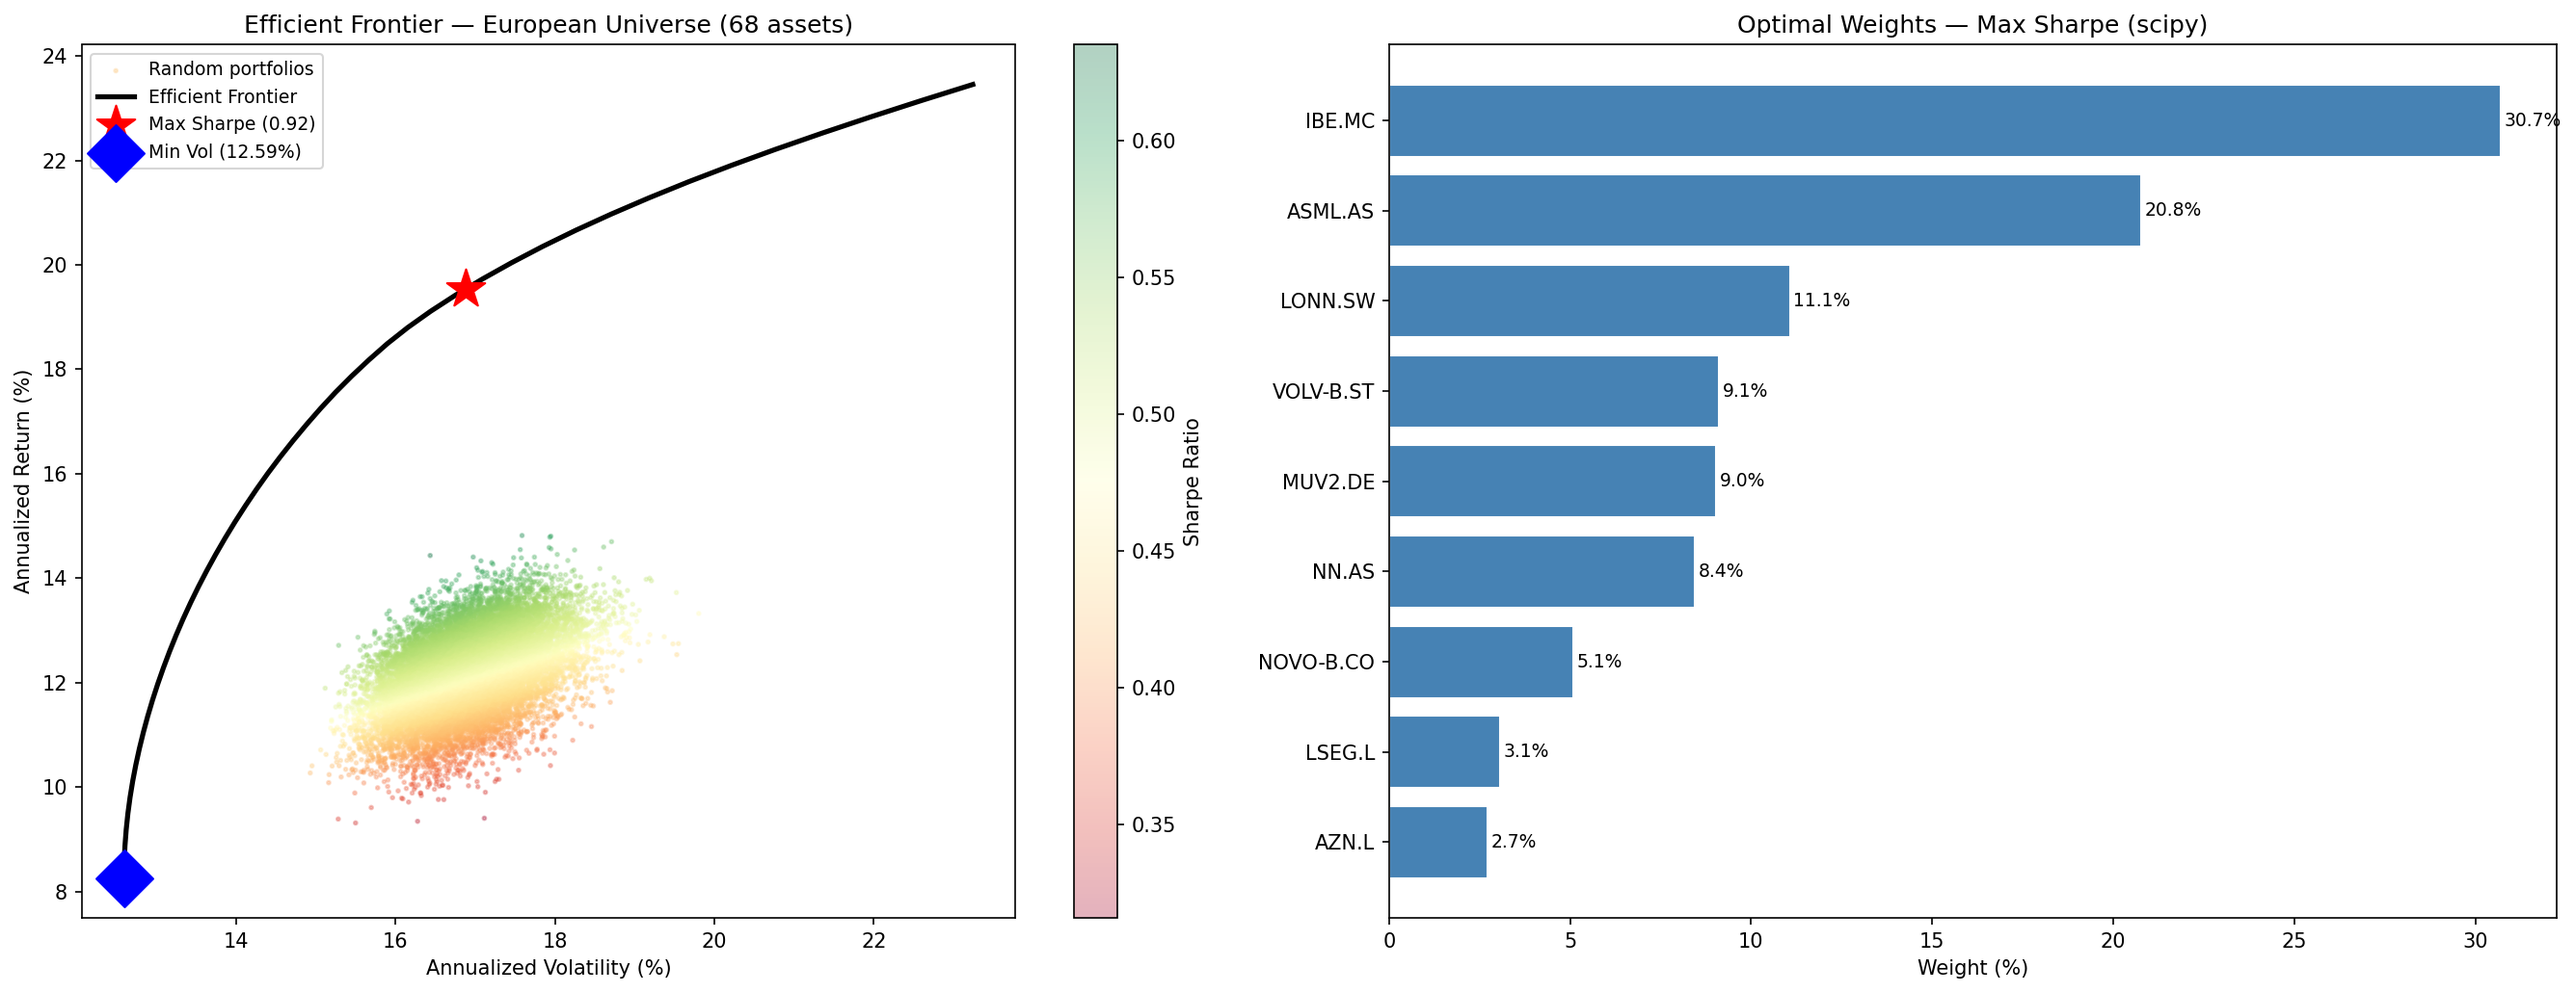
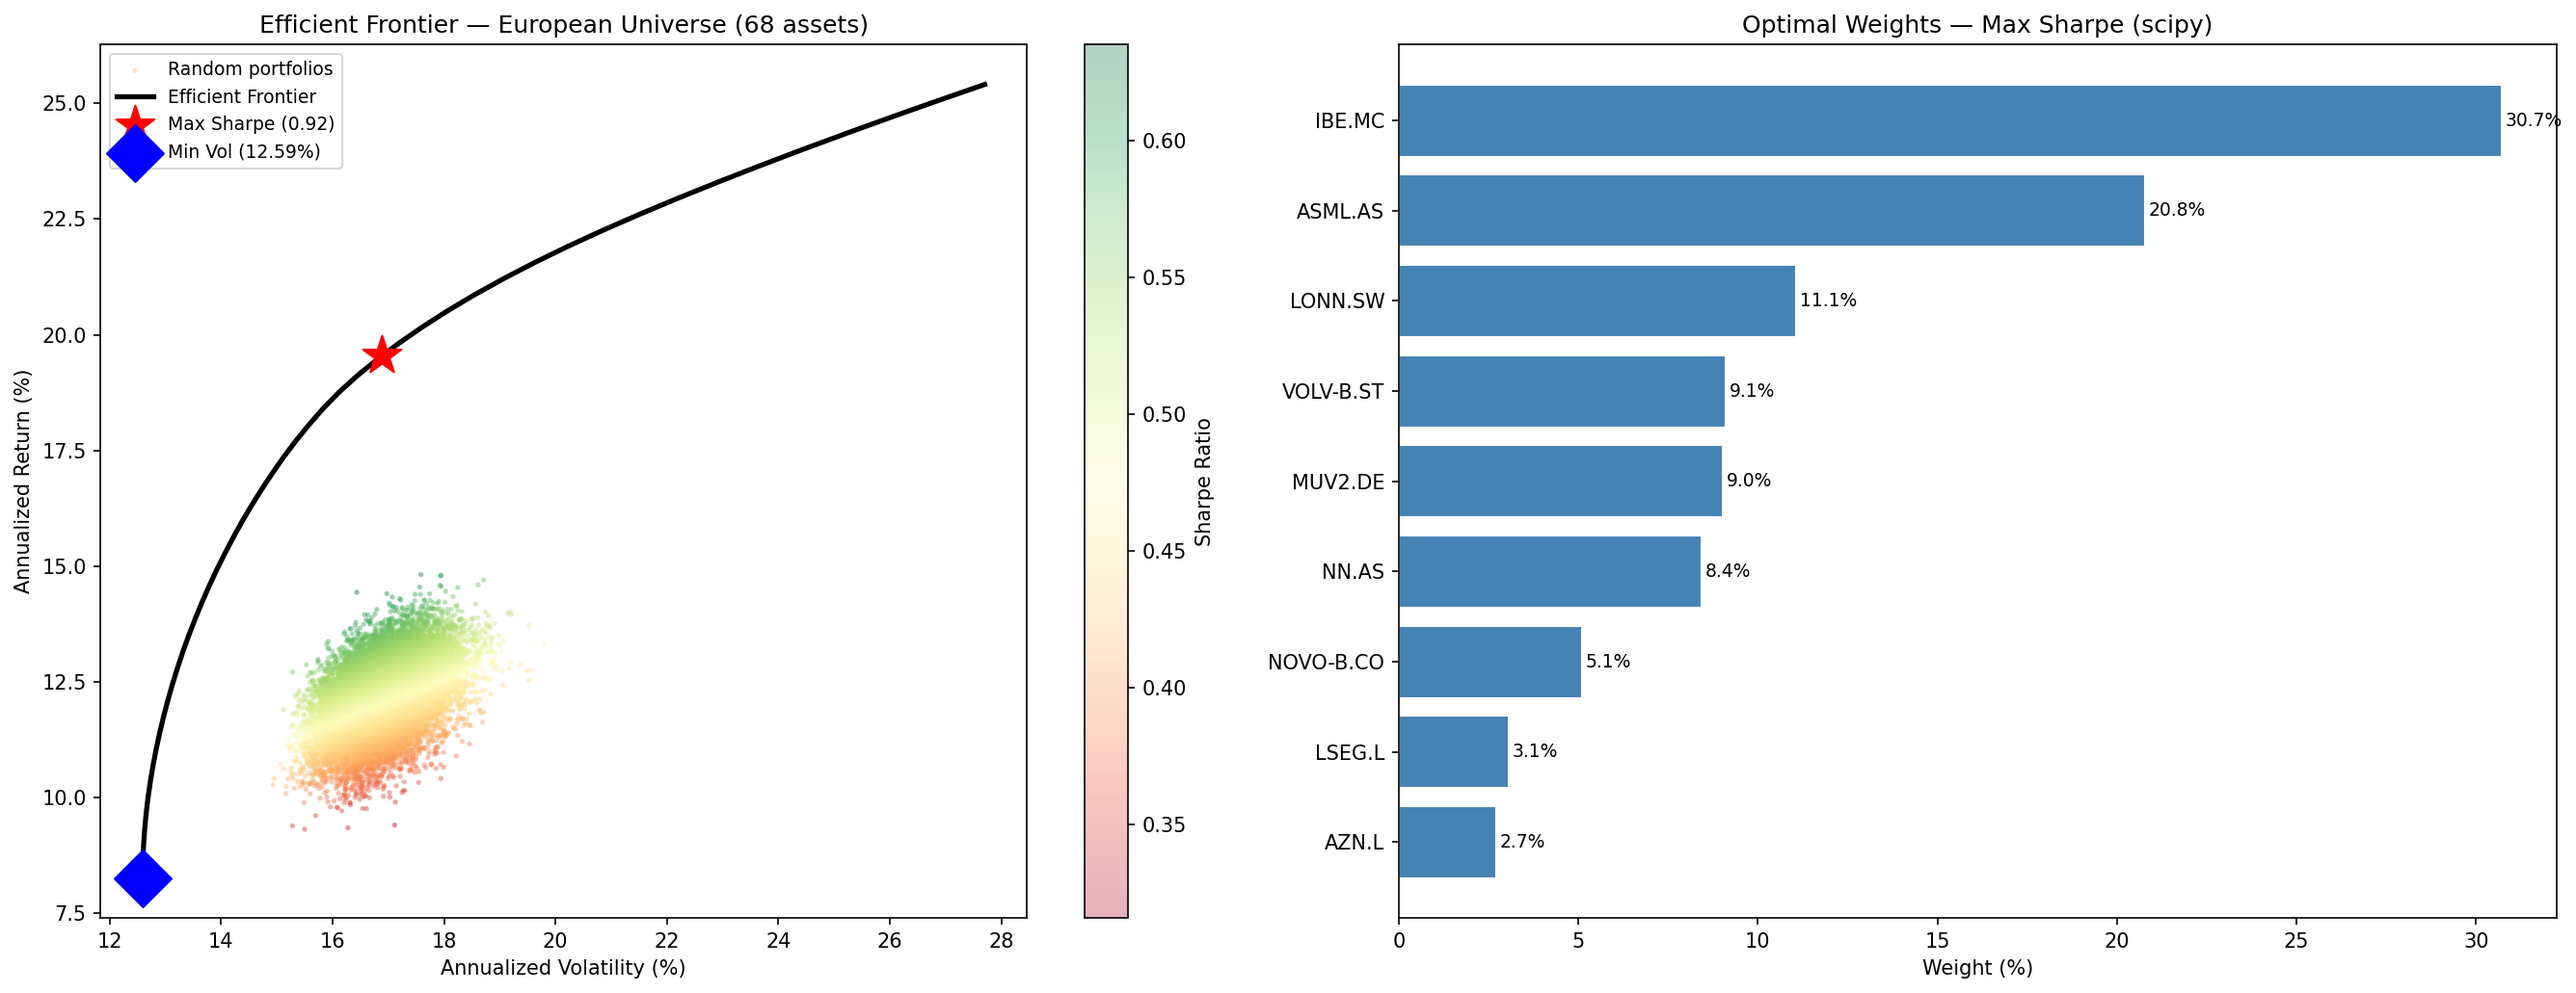
Refactor: add optimizer module, clean EU efficient frontier

diff --git a/src/optimizer.py b/src/optimizer.py
@@ -1,0 +1,138 @@
+"""
+optimizer.py
+Funzioni di ottimizzazione portafoglio: Max Sharpe, Min Volatility,
+Efficient Frontier.
+"""
+
+import numpy as np
+import pandas as pd
+from scipy.optimize import minimize
+
+
+def _portfolio_return(w, mu):
+    return w @ mu
+
+
+def _portfolio_vol(w, cov):
+    return np.sqrt(w @ cov @ w)
+
+
+def _neg_sharpe(w, mu, cov, rf):
+    ret = _portfolio_return(w, mu)
+    vol = _portfolio_vol(w, cov)
+    return -(ret - rf) / vol
+
+
+def max_sharpe(mu, cov, rf=0.04):
+    """
+    Trova il portafoglio con massimo Sharpe Ratio.
+
+    Args:
+        mu:  array rendimenti annualizzati
+        cov: matrice covarianza annualizzata
+        rf:  risk-free rate (default 4%)
+
+    Returns:
+        dict con weights, return, volatility, sharpe
+    """
+    n = len(mu)
+    w0 = np.ones(n) / n
+    bounds = [(0, 1)] * n
+    constraints = {'type': 'eq', 'fun': lambda w: np.sum(w) - 1}
+
+    res = minimize(_neg_sharpe, w0, args=(mu, cov, rf),
+                   method='SLSQP', bounds=bounds, constraints=constraints)
+
+    w = res.x
+    ret = _portfolio_return(w, mu)
+    vol = _portfolio_vol(w, cov)
+
+    return {
+        'weights': w,
+        'return': ret,
+        'volatility': vol,
+        'sharpe': (ret - rf) / vol
+    }
+
+
+def min_volatility(mu, cov):
+    """
+    Trova il portafoglio a minima varianza.
+
+    Returns:
+        dict con weights, return, volatility, sharpe
+    """
+    n = len(mu)
+    w0 = np.ones(n) / n
+    bounds = [(0, 1)] * n
+    constraints = {'type': 'eq', 'fun': lambda w: np.sum(w) - 1}
+
+    res = minimize(_portfolio_vol, w0, args=(cov,),
+                   method='SLSQP', bounds=bounds, constraints=constraints)
+
+    w = res.x
+    ret = _portfolio_return(w, mu)
+    vol = _portfolio_vol(w, cov)
+
+    return {
+        'weights': w,
+        'return': ret,
+        'volatility': vol
+    }
+
+
+def efficient_frontier(mu, cov, rf=0.04, n_points=50):
+    """
+    Calcola la frontiera efficiente come serie di portafogli ottimali.
+
+    Returns:
+        DataFrame con colonne: target_return, volatility
+    """
+    minvol = min_volatility(mu, cov)
+    maxsharpe = max_sharpe(mu, cov, rf)
+
+    target_returns = np.linspace(
+        minvol['return'],
+        maxsharpe['return'] * 1.3,
+        n_points
+    )
+
+    frontier = []
+    n = len(mu)
+    w0 = np.ones(n) / n
+    bounds = [(0, 1)] * n
+
+    for target in target_returns:
+        constraints = [
+            {'type': 'eq', 'fun': lambda w: np.sum(w) - 1},
+            {'type': 'eq', 'fun': lambda w, t=target: w @ mu - t}
+        ]
+        res = minimize(_portfolio_vol, w0, args=(cov,),
+                       method='SLSQP', bounds=bounds,
+                       constraints=constraints)
+        frontier.append({
+            'target_return': target,
+            'volatility': np.sqrt(res.x @ cov @ res.x) if res.success else np.nan
+        })
+
+    return pd.DataFrame(frontier)
+
+
+def regional_allocation(weights, tickers, region_map):
+    """
+    Calcola l'allocazione percentuale per regione.
+
+    Args:
+        weights:    array di pesi
+        tickers:    lista di ticker
+        region_map: dict {ticker: region}
+
+    Returns:
+        dict {region: total_weight}
+    """
+    w_series = pd.Series(weights, index=tickers)
+    allocation = {}
+    for region in set(region_map.values()):
+        region_tickers = [t for t, r in region_map.items() if r == region]
+        allocation[region] = w_series[w_series.index.isin(region_tickers)].sum()
+    return allocation
